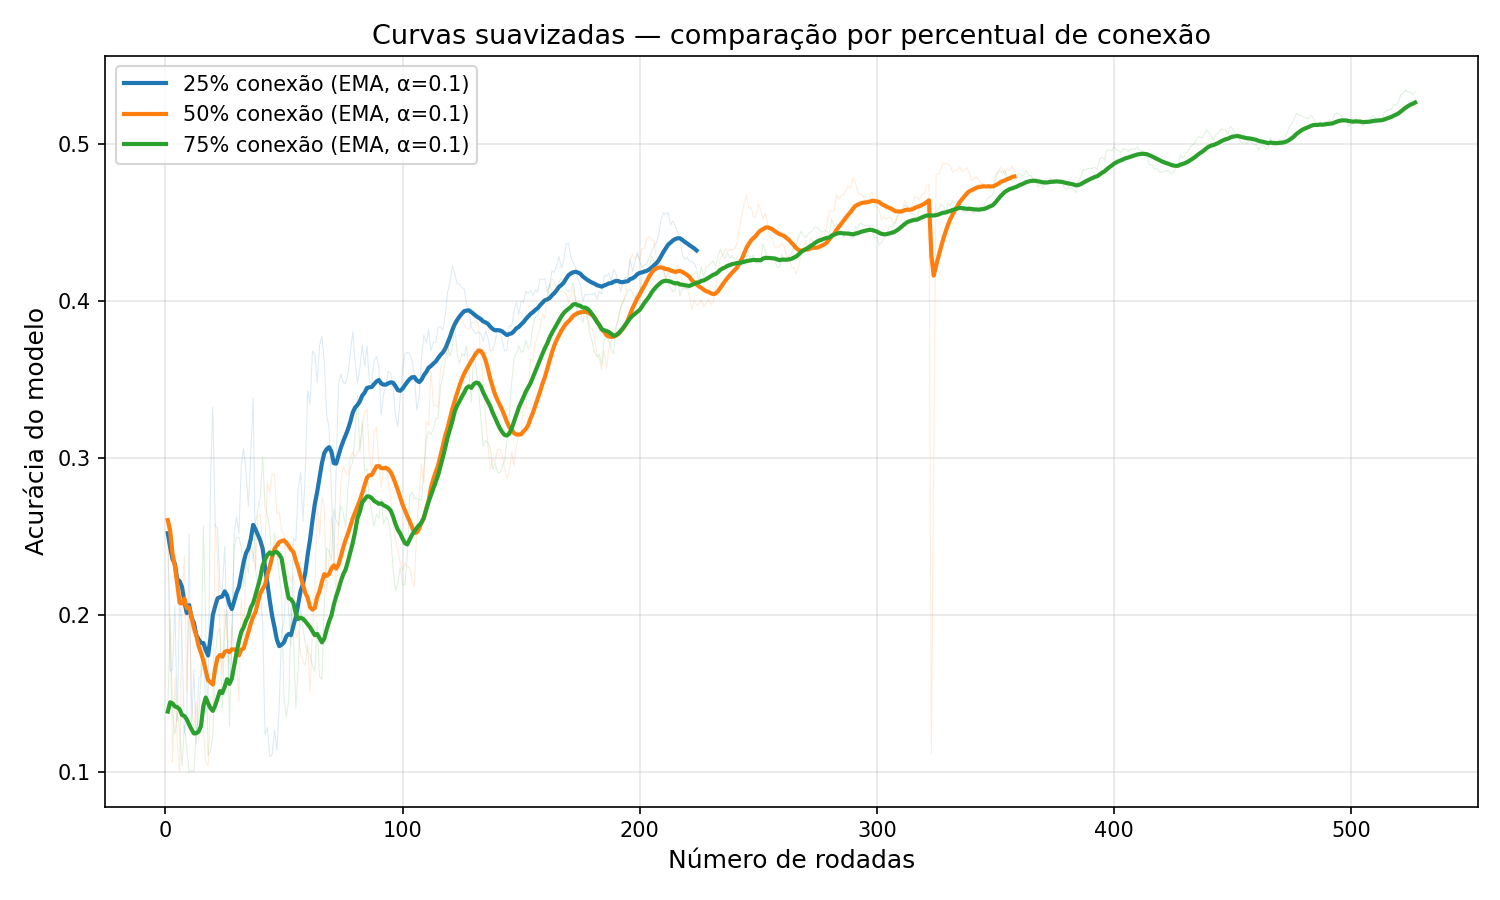
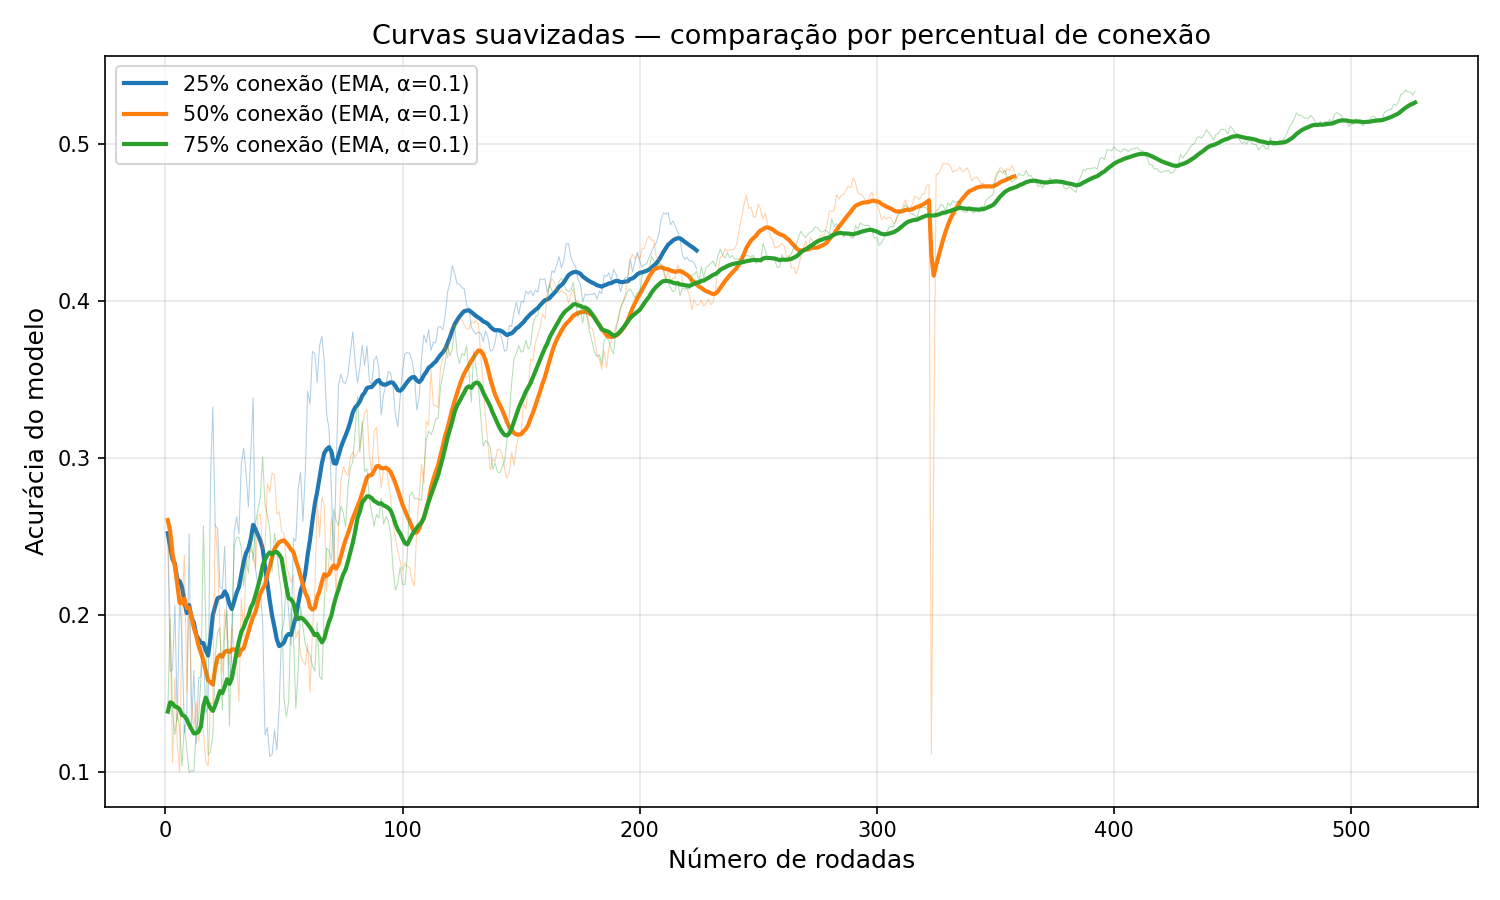
fix: adjust transparency of accuracy overlay plot for better visibility

diff --git a/utils/plot_accuracy.py b/utils/plot_accuracy.py
@@ -116,7 +116,7 @@ def plot_smoothed_overlay(data, output_dir, is_non_iid, alpha=0.1,
         ax.plot(x_axis, smoothed,
                 label=f'{display}% conexão (EMA, α={alpha})',
                 linewidth=2, color=color)
-        ax.plot(x_axis, acc, alpha=0.15, linewidth=0.5, color=color)
+        ax.plot(x_axis, acc, alpha=0.35, linewidth=0.5, color=color)
 
     ax.set_xlabel(x_label, fontsize=12)
     ax.set_ylabel('Acurácia do modelo', fontsize=12)
